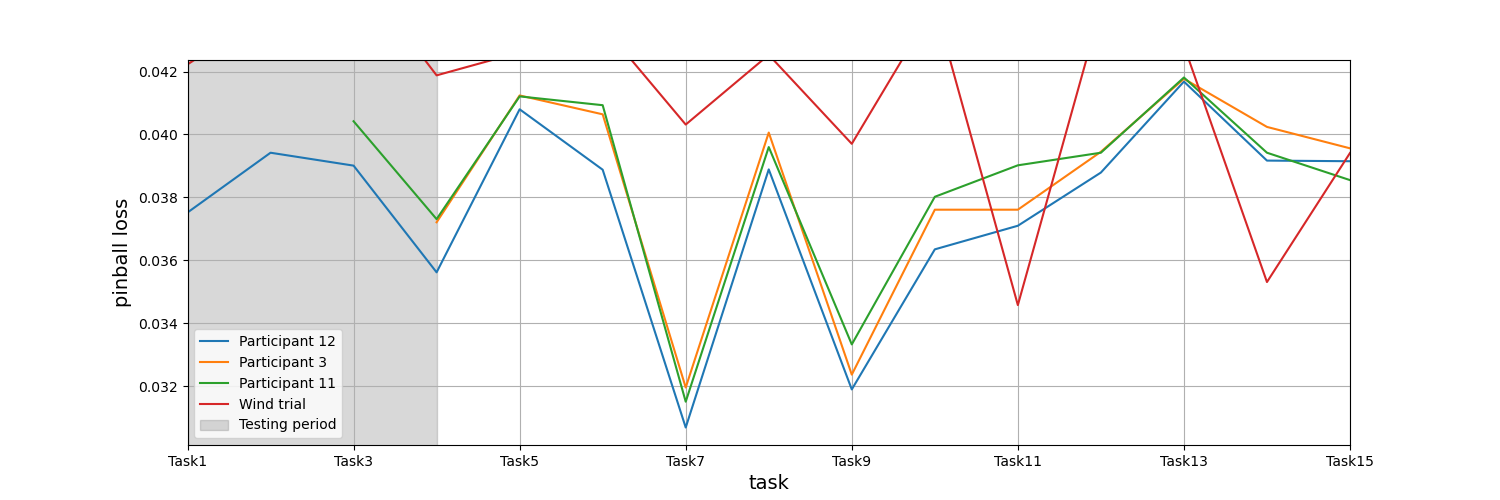
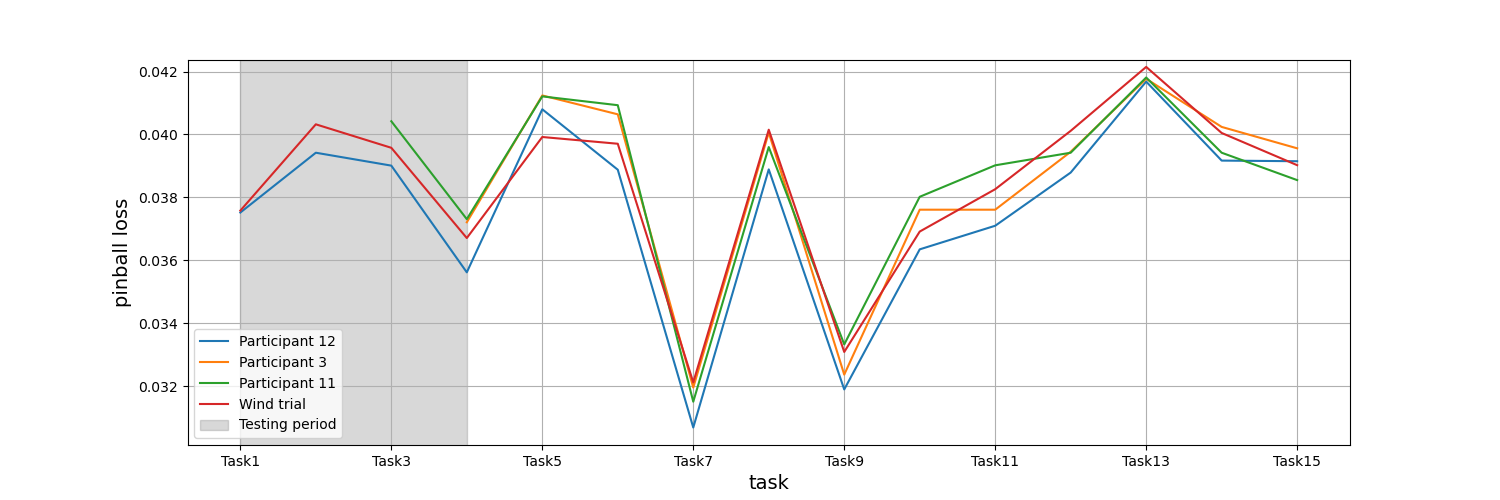
Second place in Wind competition

diff --git a/preprocess/preprocess_gefcom2014_wind_example.py b/preprocess/preprocess_gefcom2014_wind_example.py
@@ -38,15 +38,44 @@ def preprocess_wind(df, target, features):
         df_features.loc[:,'Utot100'] = np.sqrt(df.loc[:,(farm, 'U100')]**2+df.loc[:,(farm, 'V100')]**2)
         df_features.loc[:,'Theta100'] = np.angle(df.loc[:,(farm, 'U100')]+df.loc[:,(farm, 'V100')]*1j, deg=True)
 
+        df_features.loc[:,'Utot10_Acc'] = df_features.loc[:,'Utot10'].diff(1)
+        df_features.loc[:,'Utot100_Acc'] = df_features.loc[:,'Utot100'].diff(1)
+        
         df_features.loc[:,'Utot310'] = df_features.loc[:,'Utot10']**3
         df_features.loc[:,'Utot3100'] = df_features.loc[:,'Utot100']**3
         df_features.loc[:,'Utotdiff'] = df_features.loc[:,'Utot100']-df_features.loc[:,'Utot10']
+        
+        for feature in df_features.columns:
+            df.loc[:, (farm, feature)] = df_features[feature]
+
+    for farm in df.columns.levels[0]:
+        df_features = pd.DataFrame(index=df.index)
+
+        df_features.loc[:, 'O_UTot100_Mean'] = df.loc[:, pd.IndexSlice[:, 'Utot100']].mean(axis=1)
+        df_features.loc[:, 'O_UTot100_Std'] = df.loc[:, pd.IndexSlice[:, 'Utot100']].std(axis=1)
+        df_features.loc[:, 'O_UTot100_Min'] = df.loc[:, pd.IndexSlice[:, 'Utot100']].min(axis=1)
+        df_features.loc[:, 'O_UTot100_Max'] = df.loc[:, pd.IndexSlice[:, 'Utot100']].max(axis=1)
+        df_features.loc[:, 'O_Theta100_Mean'] = df.loc[:, pd.IndexSlice[:, 'Theta100']].mean(axis=1)
+        df_features.loc[:, 'O_Theta100_Std'] = df.loc[:, pd.IndexSlice[:, 'Theta100']].std(axis=1)
+        df_features.loc[:, 'O_Theta100_Min'] = df.loc[:, pd.IndexSlice[:, 'Theta100']].min(axis=1)
+        df_features.loc[:, 'O_Theta100_Max'] = df.loc[:, pd.IndexSlice[:, 'Theta100']].max(axis=1)
+        df_features.loc[:, 'O_UTot100_Acc_Mean'] = df.loc[:, pd.IndexSlice[:, 'Utot100_Acc']].mean(axis=1)
+        df_features.loc[:, 'O_UTot100_Acc_Std'] = df.loc[:, pd.IndexSlice[:, 'Utot100_Acc']].std(axis=1)
+        df_features.loc[:, 'O_UTot100_Acc_Min'] = df.loc[:, pd.IndexSlice[:, 'Utot100_Acc']].min(axis=1)
+        df_features.loc[:, 'O_UTot100_Acc_Max'] = df.loc[:, pd.IndexSlice[:, 'Utot100_Acc']].max(axis=1)
+        
+        #other_farms = df.columns.levels[0].difference([farm])
+        for ofarm in df.columns.levels[0]:
+            df_features.loc[:, 'O_UTot100_'+ofarm] = df.loc[:, pd.IndexSlice[ofarm, 'Utot100']].values
+
+        for ofarm in df.columns.levels[0]:
+            df_features.loc[:, 'O_Theta100_'+ofarm] = df.loc[:, pd.IndexSlice[ofarm, 'Theta100']].values
 
         for feature in df_features.columns:
             df.loc[:, (farm, feature)] = df_features[feature]
 
     df_temp = pd.DataFrame(index=df.index, columns=pd.MultiIndex.from_product([df.columns.levels[0], [target]+features]))
-    df_temp.loc[:, (slice(None), [target]+features)] = df.loc[:, (slice(None), [target]+features)]
+    df_temp.loc[:, pd.IndexSlice[:, [target]+features]] = df.loc[:, pd.IndexSlice[:, [target]+features]]
 
     return df_temp
 

diff --git a/gbdt_forecast.py b/gbdt_forecast.py
@@ -45,6 +45,12 @@ class Trial():
         self.regression_params = params_json['regression_params']
         self.save_options = params_json['save_options']
         
+        if 'parallel_processing' in params_json:
+            self.parallel_processing = params_json['parallel_processing']
+        else:
+            self.parallel_processing = {'backend': 'threading',
+                                        'n_workers': 1}
+            
         if 'quantile' in self.regression_params['type']:
             alpha_q = np.arange(self.regression_params['alpha_range'][0],
                                 self.regression_params['alpha_range'][1],
@@ -83,10 +89,14 @@ class Trial():
 
         def add_lags(df, variables_lags): 
             # Lagged features
-            for variable, lags in variables_lags.items():
-                for lag in lags:
-                    df.loc[:, variable+'_lag{0}'.format(lag)] = df.loc[:, variable].groupby('ref_datetime').shift(lag)
-
+            vspec = pd.DataFrame([(k, lag) for k, v in variables_lags.items() for lag in v],
+                                 columns=["Variable", "Lag"])\
+                              .set_index("Variable")\
+                              .sort_values("Lag")
+            for lag, variables in vspec.groupby("Lag").groups.items():
+                shifted = df.loc[:, sorted(variables)].groupby('ref_datetime').shift(lag)
+                shifted.columns = ['%s_lag%s' % (variable, lag) for variable in sorted(variables)]
+                df = pd.concat([df, shifted], axis=1)
             return df
 
         # Make target into list if not already
@@ -273,8 +283,8 @@ class Trial():
                                 self.regression_params['alpha_range'][1],
                                 self.regression_params['alpha_range'][2])
 
-            with joblib.parallel_backend(self.parallel_backend):
-                results = joblib.Parallel(n_jobs=-1)(
+            with joblib.parallel_backend(self.parallel_processing['backend']):
+                results = joblib.Parallel(n_jobs=self.parallel_processing['n_workers'])(
                                 joblib.delayed(self.train_on_objective)(
                                     train_set, valid_sets,
                                     model, objective='quantile', alpha=alpha)
@@ -592,7 +602,9 @@ class Trial():
                 else:
                     with open(file_name, 'a') as file:
                         file.write('Name: {0}; Comment: {1}; Model: {2}; Train score {3}; valid score {4};\n'.format(self.trial_name, self.trial_comment, model, score_train_model[model], score_valid_model[model]))
-
+        else:
+            score_train_model = None
+            score_valid_model = None
         print('Results saved to: '+trial_path)
 
         return score_train_model, score_valid_model

diff --git a/generate_plots_solar.py b/generate_plots_solar.py
@@ -1,4 +1,5 @@
 import glob
+import numpy as np
 import pandas as pd
 import matplotlib.pyplot as plt
 
@@ -12,27 +13,36 @@ def load_loss(path):
     return dfs_split
 
 if __name__ == '__main__':
-    path = '../result/gefcom2014-solar/trial21/dfs_loss_valid_model/*.csv'
+    path = './result/gefcom2014-solar/trial21/dfs_loss_valid_model/*.csv'
     dfs_loss_split_valid = load_loss(path)
     loss_mean_valid = [df.mean().mean() for df in dfs_loss_split_valid]
 
     # Load competition scores
-    df_scores = pd.read_excel('../data/gefcom2014/gefcom2014-scores.xlsx', index_col=0, header=0, sheet_name='Solar')
+    df_scores = pd.read_excel('./data/gefcom2014/gefcom2014-scores.xlsx', index_col=0, header=0, sheet_name='Solar')
+    df_scores.index = ['Participant {0}'.format(i+1) for i in range(len(df_scores.index))]
     df_scores.loc['Solar trial',:] = loss_mean_valid
-    df_scores.loc[:,'Overall'] = df_scores.mean(axis=1)
+    df_scores.loc[:,'Overall'] = df_scores.iloc[:, 4:].mean(axis=1)
+    df_scores = df_scores.rename(index={'Participant 3': 'Benchmark'})
 
     # Plot scores for teams
     ax = df_scores['Overall'].sort_values().plot.bar(figsize=(15,5))
     ax.set_ylabel('pinball loss', fontsize=14)
-    plt.savefig('./gefcom2014-solar-teams.png')
+    plt.tight_layout()
+    plt.savefig('./plots/gefcom2014-solar-teams.png')
 
     # Plot scores for tasks
     fig, ax = plt.subplots(figsize=(15,5))
-    df_scores.loc['Gang-gang',:][:-1].plot(ax=ax)
-    df_scores.loc['dmlab',:][:-1].plot(ax=ax)
-    df_scores.loc['C3 Green Team',:][:-1].plot(ax=ax)
+    fig, ax = plt.subplots(figsize=(15,5))
+    df_scores.loc['Participant 6',:][:-1].plot(ax=ax)
+    df_scores.loc['Participant 20',:][:-1].plot(ax=ax)
+    df_scores.loc['Participant 4',:][:-1].plot(ax=ax)
+    ylim = ax.get_ylim()
+    df_area = pd.DataFrame(data=np.repeat(ylim[1], 4), index=df_scores.columns[:4], columns=['Testing period'])
+    df_area.plot.area(ax=ax, color='grey', alpha=0.3)
     df_scores.loc['Solar trial',:][:-1].plot(ax=ax)
+    ax.set_ylim(ylim[0], ylim[1])
     ax.set_xlabel('task', fontsize=14)
     ax.set_ylabel('pinball loss', fontsize=14)
+    ax.grid()
     ax.legend()
-    plt.savefig('./gefcom2014-solar-tasks.png')
+    plt.savefig('./plots/gefcom2014-solar-tasks.png')

diff --git a/generate_plots_wind.py b/generate_plots_wind.py
@@ -13,7 +13,7 @@ def load_loss(path):
     return dfs_split
 
 if __name__ == '__main__':
-    path = './result/gefcom2014-wind/trial11/dfs_loss_valid_model/*.csv'
+    path = './result/gefcom2014-wind/trial_043/dfs_loss_valid/*.csv'
     dfs_loss_split_valid = load_loss(path)
     loss_mean_valid = [df.mean().mean() for df in dfs_loss_split_valid]
 
